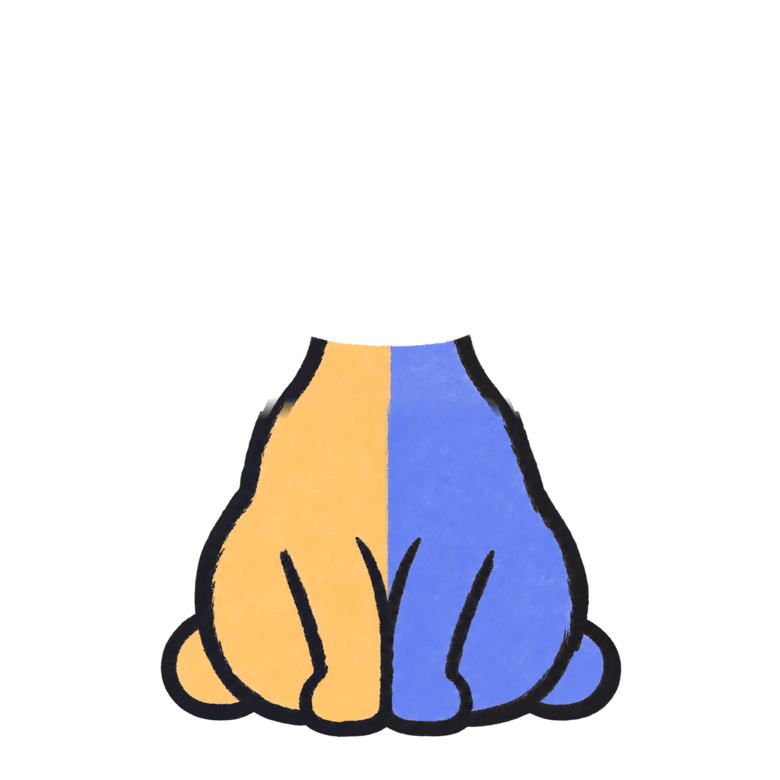
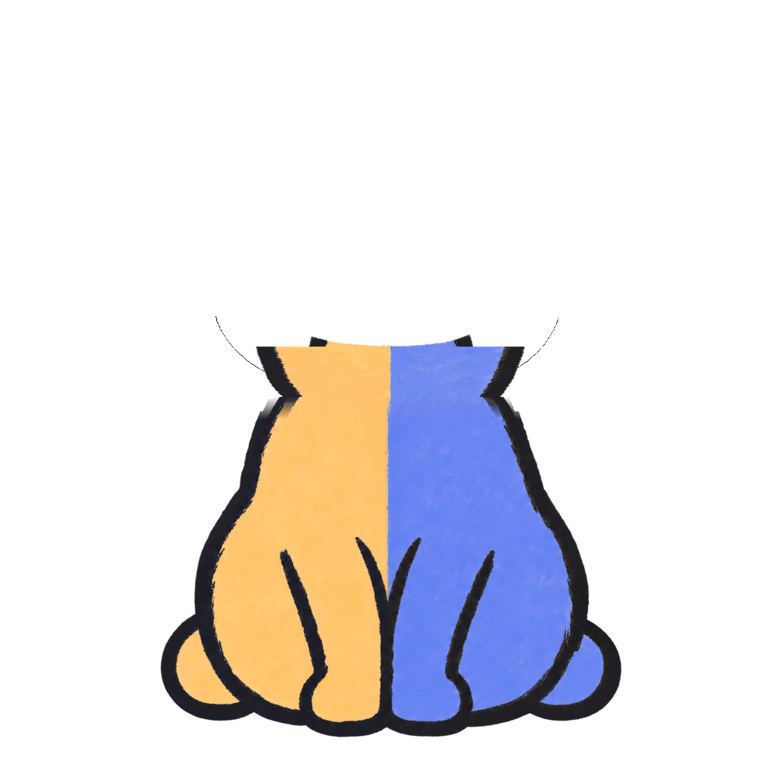
fix(pet): fill the cheek gap and sit the head lower (#143)
* fix(pet): fill the cheek gap and sit the head lower

The body layer is redrawn so its neck rises behind the head with the
outline wrapped around each cheek, filling the unlined notch between the
cheeks and shoulders; runtime copies regenerated. The head group (head,
ears, eyes) is lowered 24/1024 of the canvas in code via HEAD_DROP, which
shortens the neck and hides the seam under the chin, leaving the source
art as drawn.

Claude-Session: https://claude.ai/code/session_012EzchSAnQHcjqHSd5QfHXD

* fix(pet): review fixes — close cheek pinholes, pixel-align the head drop

- A flood fill of the composite from outside found 126 enclosed
  see-through pixels along the inside of the cheek outlines; they're
  filled on the body layer with the nearest solid colour (0 remain) and
  the body's runtime copies are regenerated.
- cat-assembled-reference.png is regenerated with the head drop, so it
  matches what the app draws.
- The head drop moves into SharedPet's size-memoised pivots, rounded to a
  device pixel so the head's outline meets the body's cheek line on the
  same pixel grid; a plain View replaces the static Animated.View.
- The "never position a layer on its own" comment and CLAUDE.md rule now
  name the grouped head exception.

Claude-Session: https://claude.ai/code/session_012EzchSAnQHcjqHSd5QfHXD

---------

Changed region(s): [[0.3077, 0.4308, 0.4308, 0.5231], [0.5846, 0.4308, 0.6769, 0.5231]]

diff --git a/src/components/SharedPet.tsx b/src/components/SharedPet.tsx
@@ -3,8 +3,10 @@ import {
   AccessibilityInfo,
   AppState,
   Image,
+  PixelRatio,
   Pressable,
   StyleSheet,
+  View,
 } from 'react-native';
 import Animated, {
   cancelAnimation,
@@ -21,6 +23,8 @@ import type { PetMood } from '@/types';
 
 // Hand-drawn layers on one shared square canvas: each is absolute-fill and
 // must never be cropped or positioned on its own, or the cat falls apart.
+// The one exception is deliberate and grouped: head, ears and eyes move
+// together by `headDrop` (see the pivots below).
 // Metro picks the @1x/@2x/@3x file (260/520/780px) for the screen.
 const BODY = require('../../assets/cat/runtime/cat-body.png');
 const HEAD = require('../../assets/cat/runtime/cat-head.png');
@@ -39,6 +43,7 @@ const LAYERS = {
   eyesClosed: EYES_CLOSED,
 };
 type LayerName = keyof typeof LAYERS;
+
 const LAYER_COUNT = Object.keys(LAYERS).length;
 
 // Development only: there the layers are served by Metro, through a tunnel
@@ -374,6 +379,17 @@ export default function SharedPet({
       tail: { transformOrigin: [size * 0.749, size * 0.7969, 0] },
       leftEar: { transformOrigin: [size * 0.3779, size * 0.2666, 0] },
       rightEar: { transformOrigin: [size * 0.627, size * 0.2461, 0] },
+      // The head group (head, ears, eyes) sits 24/1024 of the canvas lower
+      // than drawn: it shortens the neck and tucks the body's cheek outline
+      // behind the head. In code rather than moved pixels, so the art stays
+      // as drawn. Rounded to a device pixel so the head's outline lands on
+      // the same pixel grid as the body's cheek line it has to meet.
+      // assets/cat/cat-assembled-reference.png is composited with this drop.
+      headDrop: {
+        transform: [
+          { translateY: PixelRatio.roundToNearestPixel((size * 24) / 1024) },
+        ],
+      },
     }),
     [size]
   );
@@ -413,15 +429,20 @@ export default function SharedPet({
             the body instead of the neck seam sliding under a still head. */}
         <Animated.View style={[styles.layer, pivots.breath, breathStyle]}>
           {layer('body')}
-          <Animated.View style={[styles.layer, pivots.leftEar, leftEarStyle]}>
-            {layer('leftEar')}
-          </Animated.View>
-          <Animated.View style={[styles.layer, pivots.rightEar, rightEarStyle]}>
-            {layer('rightEar')}
-          </Animated.View>
-          {layer('head')}
-          {layer('eyesOpen', eyesOpenStyle)}
-          {layer('eyesClosed', eyesClosedStyle)}
+          {/* Head, ears and eyes move as one group, lowered onto the body. */}
+          <View style={[styles.layer, pivots.headDrop]}>
+            <Animated.View style={[styles.layer, pivots.leftEar, leftEarStyle]}>
+              {layer('leftEar')}
+            </Animated.View>
+            <Animated.View
+              style={[styles.layer, pivots.rightEar, rightEarStyle]}
+            >
+              {layer('rightEar')}
+            </Animated.View>
+            {layer('head')}
+            {layer('eyesOpen', eyesOpenStyle)}
+            {layer('eyesClosed', eyesClosedStyle)}
+          </View>
         </Animated.View>
       </Animated.View>
     </Pressable>

diff --git a/CLAUDE.md b/CLAUDE.md
@@ -534,9 +534,20 @@ line of copy per mood was dropped at the user's request.
 
 `src/components/SharedPet.tsx` stacks transparent raster layers from
 `assets/cat/runtime`: tail, body, separate ears, head, then one eye layer.
-Metro selects the 260/520/780 (`1x`/`2x`/`3x`) PNG automatically. Every layer
+Metro selects the 260/520/780 (`1x`/`2x`/`3x`) PNG automatically. The head
+group (head, ears, eyes) is drawn `headDrop` (24/1024 of the canvas, rounded
+to a device pixel; in `SharedPet`'s pivots) lower than the art, set in code
+rather than by moving pixels, and `cat-assembled-reference.png` is composited
+with that drop; the body's neck
+reaches up behind the head with its outline wrapped around the cheeks, so
+the drop hides the neck seam instead of opening a gap (2026-09-25). 126
+see-through pinhole pixels along the inside of the cheek outlines were then
+filled on the body layer with the nearest solid colour, found by a flood
+fill of the composite from outside. Every layer
 shares one square coordinate system, so it must stay absolute-fill and must
-not be independently cropped or positioned. The palette follows the app's
+not be independently cropped or positioned — except as a group: head, ears
+and eyes move together by `headDrop` (below), and layers inside a group move
+with it. The palette follows the app's
 crossover convention: day-orange/partner on the viewer's left,
 night-blue/you on the right; the tail carries the same split without an ink
 divider. The approved 1024px source art remains in `assets/cat`, with the

diff --git a/docs/testing-log.md b/docs/testing-log.md
@@ -2323,3 +2323,18 @@ before Metro-over-tunnel loads finished. Second pass: `Image.prefetch` all
 layers at app launch, a 3s fallback, and the mood title revealed with the
 cat via `onReady`. Not yet re-checked on device. Also added: occasional
 quick tail wags and a tap reaction (hop, ear perk, squint, tail flick).
+
+## 2026-09-25 — Cheek gap and a lower head
+
+The user saw unfilled notches at the cheeks: the head layer's cheek outline
+stopped short of the shoulders, with a pale erased fringe. They redrew the
+body layer so its neck rises behind the head with the outline wrapped around
+each cheek (the head layer was unchanged); runtime copies were regenerated
+and all seven layers checked against their sources at @1x/@2x/@3x. The head
+group was then lowered 24/1024 in code (`HEAD_DROP`), previewed at 0/16/32/48
+before choosing, which also covers a faint seam under the chin. Remaining,
+minor: a few smudged pixels where each cheek line meets its shoulder line.
+Code review then found 126 enclosed see-through pixels along the inside of
+the cheek outlines (flood fill of the composite from outside); they were
+filled on the body layer with the nearest solid colour, re-checked at 0
+remaining, and the reference image was regenerated with the head drop.
